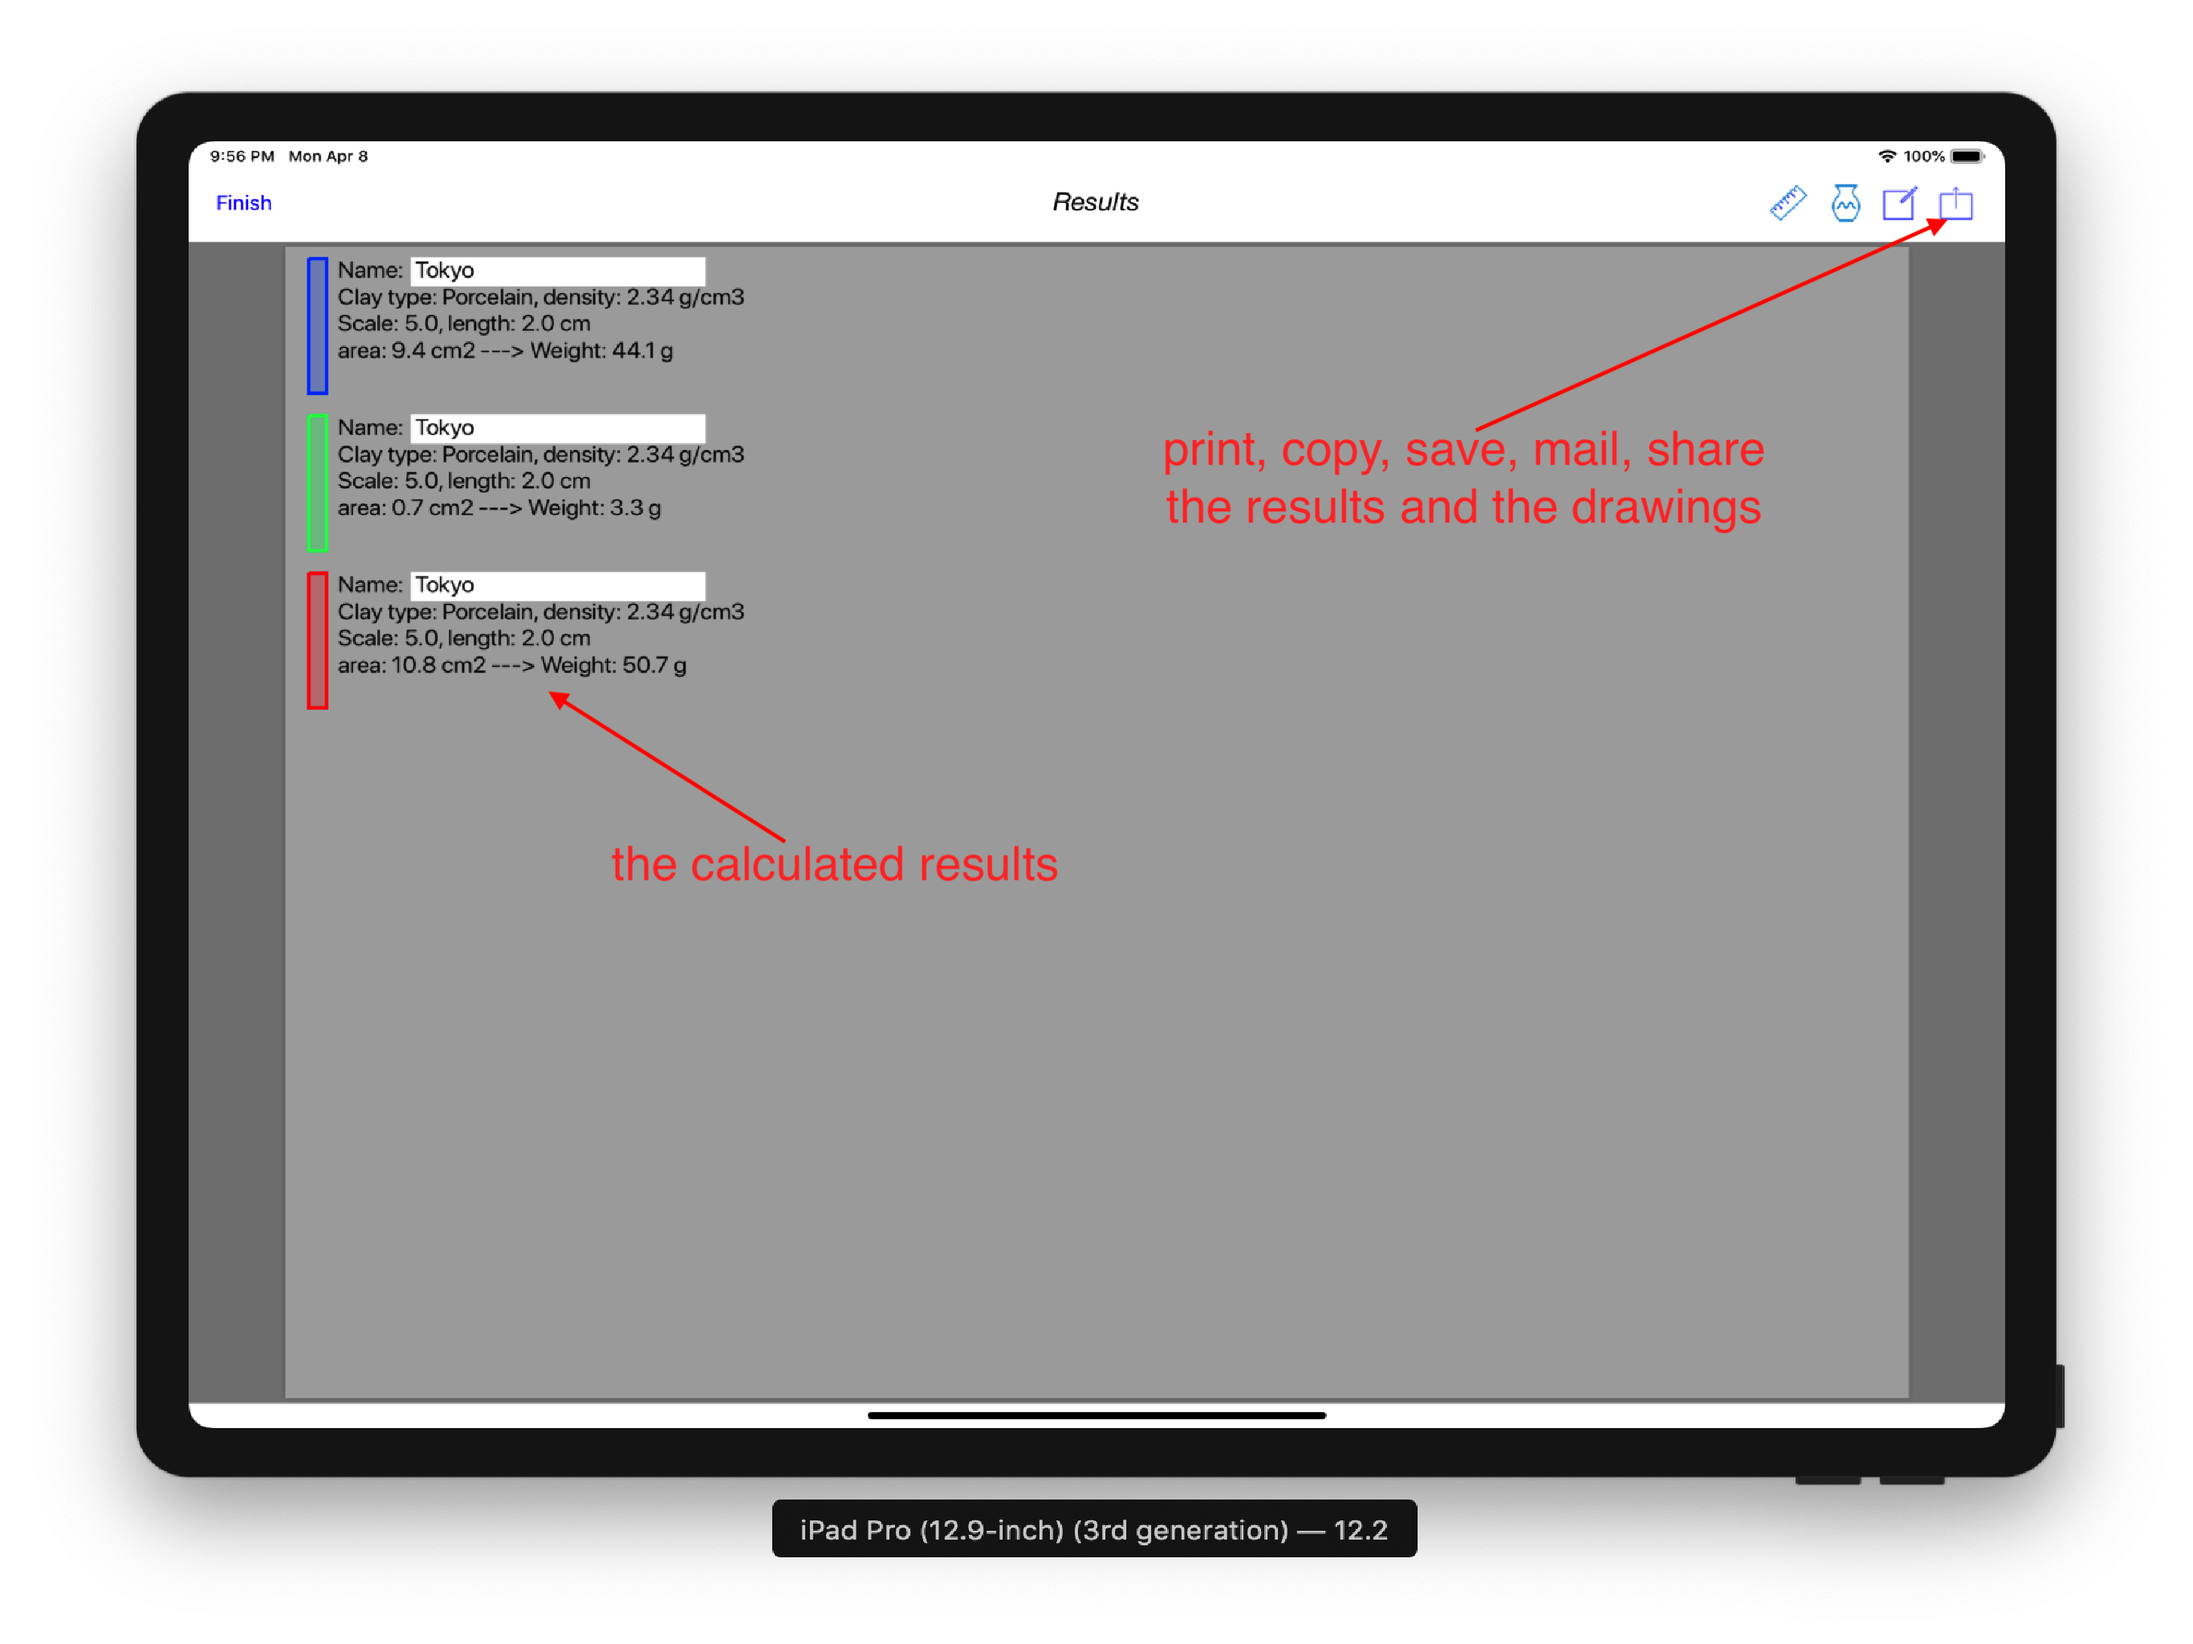
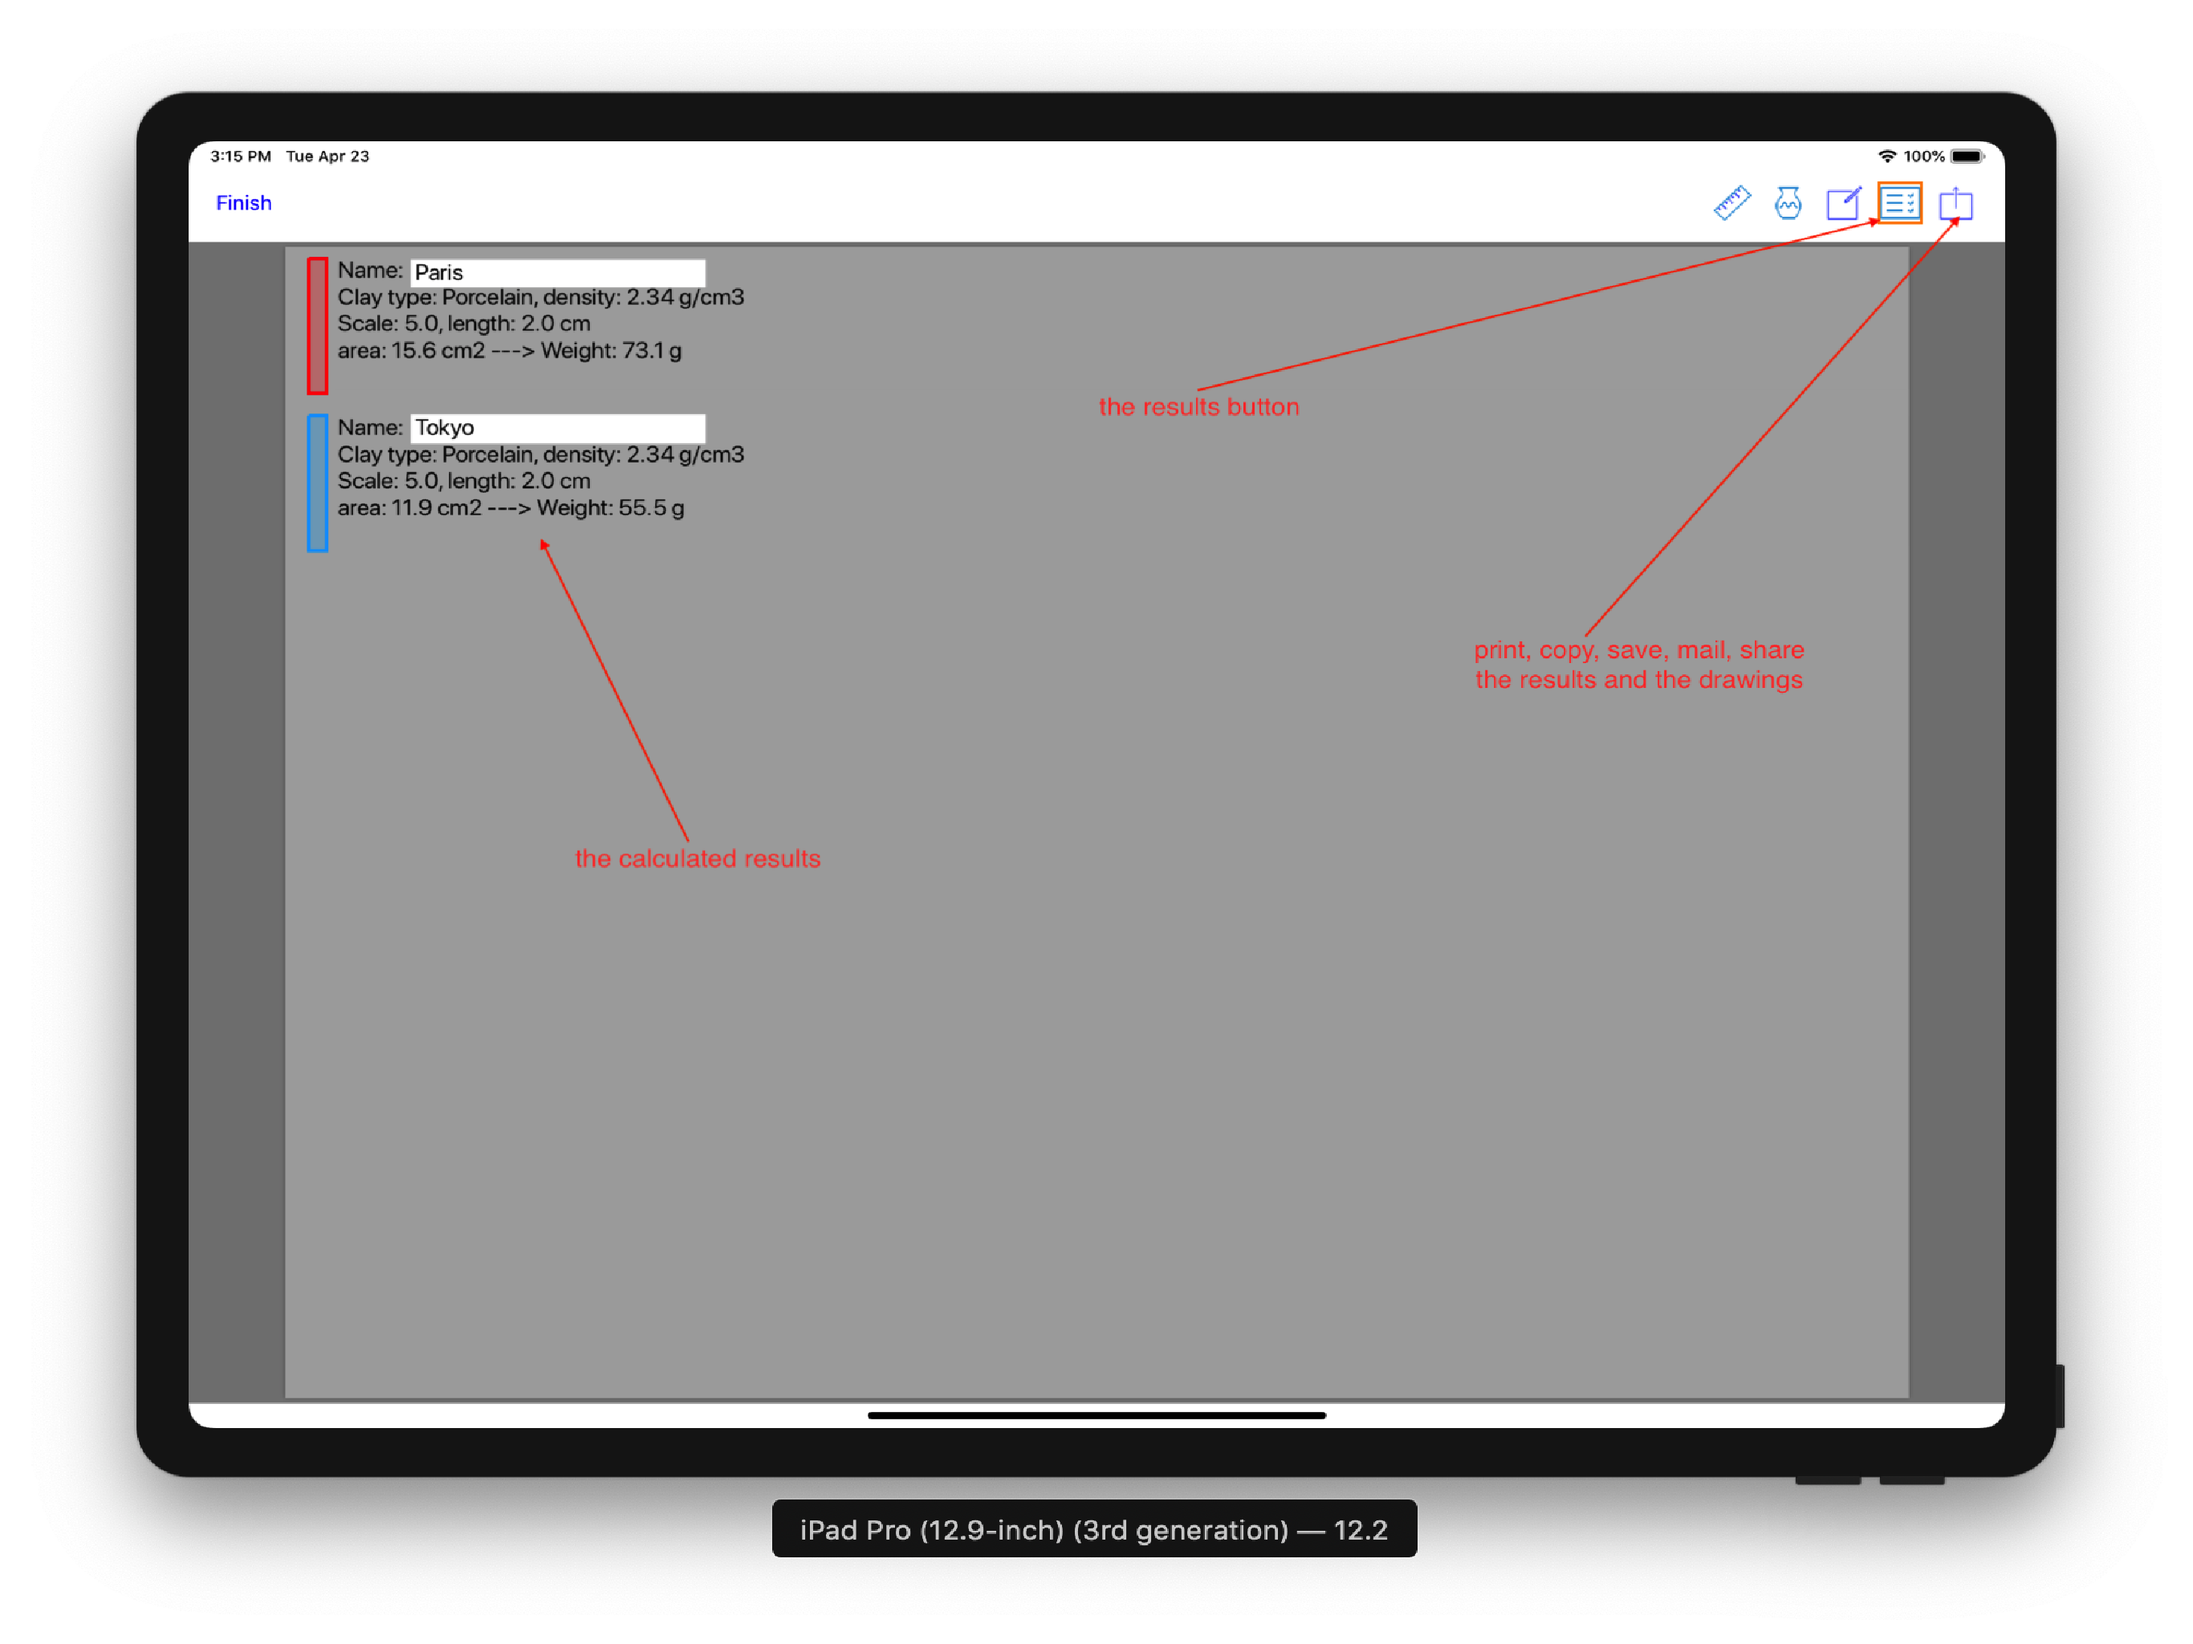
initial commit

diff --git a/index.html b/index.html
@@ -112,7 +112,7 @@ creating ceramic works made of different coloured parts, such as in Nerikomi. <s
 
         <h3 id="the-results"><strong>The results</strong></h3>
 
-        <p>Swiping left brings the <strong>results</strong> pages, where the clay information and all calculated values are displayed.
+        <p>Swiping left or pressing the <strong>results</strong> button brings the <strong>results</strong> pages, where the clay information and all calculated values are displayed.
         Each <strong>clay part</strong> is displayed by its colour and is initially given a generic name. Taping on the name
         brings up the keyboard to edit the name.</p>
 

diff --git a/README.md b/README.md
@@ -83,7 +83,7 @@ Then touch the shape you want to fill with your colour.
 
 ### **The results**
 
-Swiping left brings the **results** pages, where the clay information and all calculated values are displayed. 
+Swiping left or pressing the **results** button brings the **results** pages, where the clay information and all calculated values are displayed. 
 Each **clay part** is displayed by its colour and is initially given a generic name. Taping on the name 
 brings up the keyboard to edit the name.  
 
